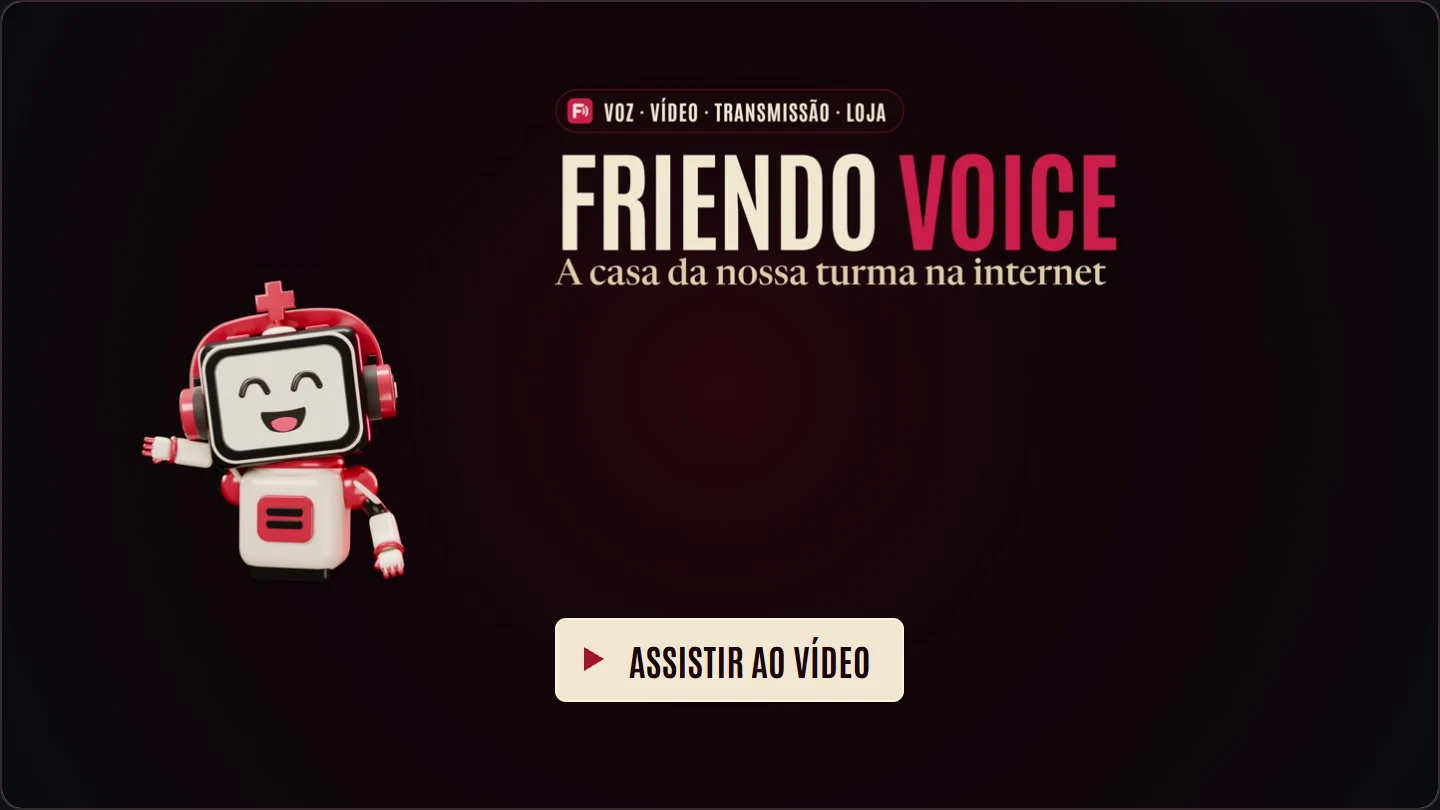
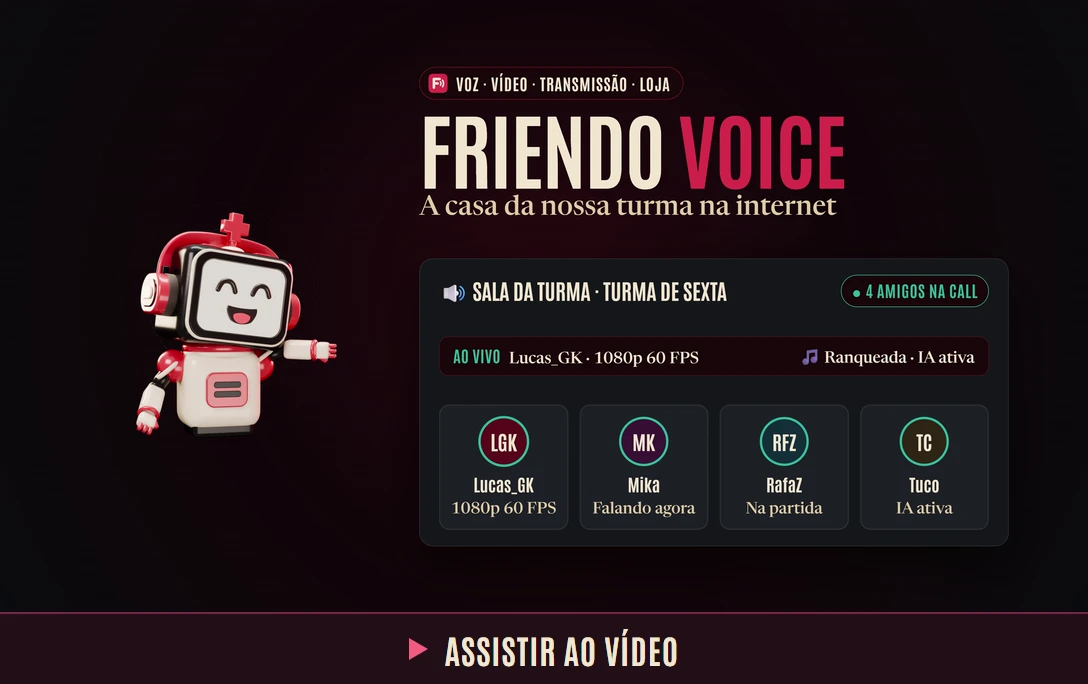
Organiza os projetos e adiciona a prévia animada do Friendo

diff --git a/README.md b/README.md
@@ -1,80 +1,102 @@
-![BINHOC · @creachec · Software e audiovisual](assets/binhoc.png)
+<div align="center">
 
-Sou o Binhoc, editor de vídeo e “programador” vibecoder. **Só programo junto com IA.** Eu trago a ideia, guio a implementação e testo no meu dia a dia. Faço apps para jogar com os amigos e ferramentas que me poupam trabalho na edição.
+<img src="assets/binhoc.png" alt="Binhoc, @creachec. Software e audiovisual." width="100%">
 
-[Destaques](#projetos-em-destaque) · [Projetos públicos](#projetos-públicos) · [Tecnologias](#tecnologias)
+<p>Sou o Binhoc, editor de vídeo e “programador” vibecoder. <strong>Só programo junto com IA.</strong></p>
+<p>Faço apps para jogar com os amigos e ferramentas para o trabalho com vídeo.</p>
+<p><a href="#projetos"><strong>Ver projetos</strong></a> · <a href="#tecnologias">Tecnologias</a></p>
 
-## Projetos em destaque
+</div>
+
+## Projetos
 
 ### Friendo Voice
 
-**Uma sala para conversar, jogar e assistir à tela dos amigos.**
+Uma sala para conversar, jogar e assistir à tela dos amigos.
 
-[![Assistir ao vídeo principal do Friendo Voice](assets/friendo-voice.webp)](https://friendo.137-131-179-91.sslip.io/desktop2/video/principal-1080p.mp4)
+<p>
+  <a href="https://friendo.137-131-179-91.sslip.io/desktop2/video/principal-1080p.mp4">
+    <picture>
+      <source media="(prefers-reduced-motion: reduce)" srcset="assets/friendo-voice.webp">
+      <img src="assets/friendo-voice-previa.webp" alt="O mascote do Friendo Voice apresenta a sala de voz Turma de Sexta. Clique para assistir ao vídeo completo." width="100%">
+    </picture>
+  </a>
+</p>
 
-O Friendo reúne chat, voz, vídeo, transmissão de tela e perfis personalizáveis. No Windows, a captura roda no app nativo. No Android, dá para acompanhar o chat e entrar nas chamadas.
+Criei o Friendo para juntar minha turma em chamadas de voz e vídeo, com chat, compartilhamento de tela e perfis personalizáveis. Dá para transmitir pelo app de Windows e acompanhar as chamadas pelo Android.
 
-[Conheça o Friendo Voice](https://friendo.137-131-179-91.sslip.io/) · [Assistir ao vídeo principal](https://friendo.137-131-179-91.sslip.io/desktop2/video/principal-1080p.mp4) · [Detalhes técnicos](projetos/friendo-voice.md)
-
-**Web, Windows e Android** · TypeScript, Go, Java, WebView2 e LiveKit · Código privado
+[Conheça o Friendo Voice](https://friendo.137-131-179-91.sslip.io/) · [Vídeo completo](https://friendo.137-131-179-91.sslip.io/desktop2/video/principal-1080p.mp4) · [Detalhes técnicos](projetos/friendo-voice.md)<br>
+<sub>Web, Windows e Android · TypeScript, Go, Java e LiveKit · Código privado</sub>
 
 ### DuoScope
 
-**Um raio-X do jeito de jogar no League of Legends.**
+Um raio-X do jeito de jogar no League of Legends.
 
 [![Tela de busca por Riot ID no DuoScope](assets/duoscope.webp)](https://duoscope.duckdns.org/)
 
-A busca por Riot ID reúne histórico, campeões mais usados, desempenho por rota e comparações entre jogadores. Um companion para Windows acompanha a seleção de campeões. A demonstração usa dados simulados.
+Busque um Riot ID para ver histórico, campeões mais usados e desempenho por rota. O aplicativo complementar para Windows acompanha a seleção de campeões. O site abre em modo de demonstração, com dados simulados.
 
-[Abrir o site do DuoScope](https://duoscope.duckdns.org/) · [Detalhes técnicos](projetos/duoscope.md)
-
-**Web e Windows** · JavaScript, Node.js e Electron · Código privado
-
-## Projetos públicos
+[Abrir o site do DuoScope](https://duoscope.duckdns.org/) · [Detalhes técnicos](projetos/duoscope.md)<br>
+<sub>Web e Windows · JavaScript, Node.js e Electron · Código privado</sub>
 
 ### Aether Media
 
-[![Aether Media com uma galeria de arquivos de demonstração](assets/aether-media.webp)](https://github.com/creachec/aether-media)
+Uma galeria para encontrar replays e capturas espalhados pelo PC.
 
-Uma galeria local para encontrar, organizar e assistir replays e capturas. Ela indexa as pastas que eu escolho e agrupa os arquivos por jogo.
+[![Galeria do Aether Media com arquivos de demonstração](assets/aether-media.webp)](https://github.com/creachec/aether-media)
 
-[Código e instalação](https://github.com/creachec/aether-media) · Next.js, TypeScript e FFmpeg
+Escolha as pastas que quer indexar. A galeria agrupa os arquivos por jogo e abre imagens e vídeos no próprio navegador.
+
+[Código e instalação](https://github.com/creachec/aether-media)<br>
+<sub>Next.js, TypeScript e FFmpeg</sub>
 
 ### Conversor HDR
 
+De capturas JXR para AVIF HDR no próprio PC.
+
 [![Área de envio de arquivos JXR no Conversor HDR](assets/conversor-hdr.webp)](https://github.com/creachec/conversor-hdr)
 
-Converte capturas JXR em AVIF HDR no próprio computador. Aceita um lote e reúne os arquivos prontos num ZIP.
+Selecione um lote de capturas e baixe os arquivos convertidos individualmente ou em um ZIP.
 
-[Código e instalação](https://github.com/creachec/conversor-hdr) · Node.js e Express
+[Código e instalação](https://github.com/creachec/conversor-hdr)<br>
+<sub>Node.js e Express</sub>
 
 ### Mapa da Apuração
 
+A eleição presidencial de 2026, município por município.
+
 [![Mapa e placar da totalização presidencial de 2026](assets/mapa-apuracao.webp)](https://creachec.github.io/mapa-apuracao/)
 
-Explore o resultado final da eleição presidencial de 2026 por município e estado, com comparações com o primeiro turno e 2022.
+Explore o resultado final por município e estado e compare com o primeiro turno e com 2022. A visualização usa dados oficiais do TSE.
 
-[Abrir o mapa](https://creachec.github.io/mapa-apuracao/) · [Código](https://github.com/creachec/mapa-apuracao) · JavaScript, D3 e dados do TSE
+[Abrir o mapa](https://creachec.github.io/mapa-apuracao/) · [Código](https://github.com/creachec/mapa-apuracao)<br>
+<sub>JavaScript e D3</sub>
 
 ### Contagem do Fim da 6x1
 
+Um relógio para acompanhar a transição da jornada de trabalho.
+
 [![Relógio da transição da jornada e linha do tempo trabalhista](assets/fim-da-6x1.webp)](https://creachec.github.io/fim-da-6x1/)
 
-Contagem para as etapas de redução da jornada previstas na Emenda Constitucional 141, com uma linha do tempo dos direitos trabalhistas no Brasil.
+O contador acompanha as etapas previstas na Emenda Constitucional 141 e apresenta uma linha do tempo dos direitos trabalhistas no Brasil.
 
-[Abrir o site](https://creachec.github.io/fim-da-6x1/) · [Código](https://github.com/creachec/fim-da-6x1) · HTML, CSS e JavaScript
+[Abrir o site](https://creachec.github.io/fim-da-6x1/) · [Código](https://github.com/creachec/fim-da-6x1)<br>
+<sub>HTML, CSS e JavaScript</sub>
 
 ### SD Organizer
 
-Importa cartões de câmera, organiza arquivos por evento e prepara o envio ao Drive. A edição pública começa com um evento de exemplo que dá para personalizar.
+Do cartão da câmera à pasta do evento.
 
-[Código e instalação](https://github.com/creachec/sd-organizer) · Electron e rclone
+Importa as gravações, organiza arquivos por evento, dia e tipo de mídia e prepara o envio ao Drive. A edição pública começa com um evento de exemplo que você pode editar.
+
+[Código e instalação](https://github.com/creachec/sd-organizer)<br>
+<sub>Electron e rclone</sub>
 
 <details>
-<summary>Outros projetos</summary>
+<summary><strong>Mais projetos</strong></summary>
 
 - [Stremio Kai Timeworn](https://github.com/creachec/Stremio-Kai-Timeworn) · Adaptação comunitária do Stremio Kai para TVs LG com webOS 3.x.
-- [FIFA Squad Auction](https://github.com/creachec/fifa-squad-auction) · Leilão de jogadores para montar elencos, acompanhar lances e fechar os times.
+- [FIFA Squad Auction](https://github.com/creachec/fifa-squad-auction) · Leilão de jogadores para montar elencos com os amigos.
 - [Video Creation Hub](https://github.com/creachec/video-creation-hub) · Painel web para organizar a produção de vídeo.
 - **Friendo Remote** · Transmite a tela e o áudio do PC para uma TV LG pela rede local.
 - **Gaming Gallery Launcher** · Biblioteca de jogos de PC com navegação por controle.
@@ -83,7 +105,7 @@ Importa cartões de câmera, organiza arquivos por evento e prepara o envio ao D
 
 ## Tecnologias
 
-![Tecnologias dos projetos. Web: TypeScript, React e Node.js. Apps: Go, Electron e Java. Áudio e vídeo: LiveKit, FFmpeg e Python.](assets/tecnologias.webp)
+![Tecnologias dos projetos. Web com TypeScript, React e Node.js. Apps com Go, Electron e Java. Áudio e vídeo com LiveKit, FFmpeg e Python.](assets/tecnologias.webp)
 
 ---
 
